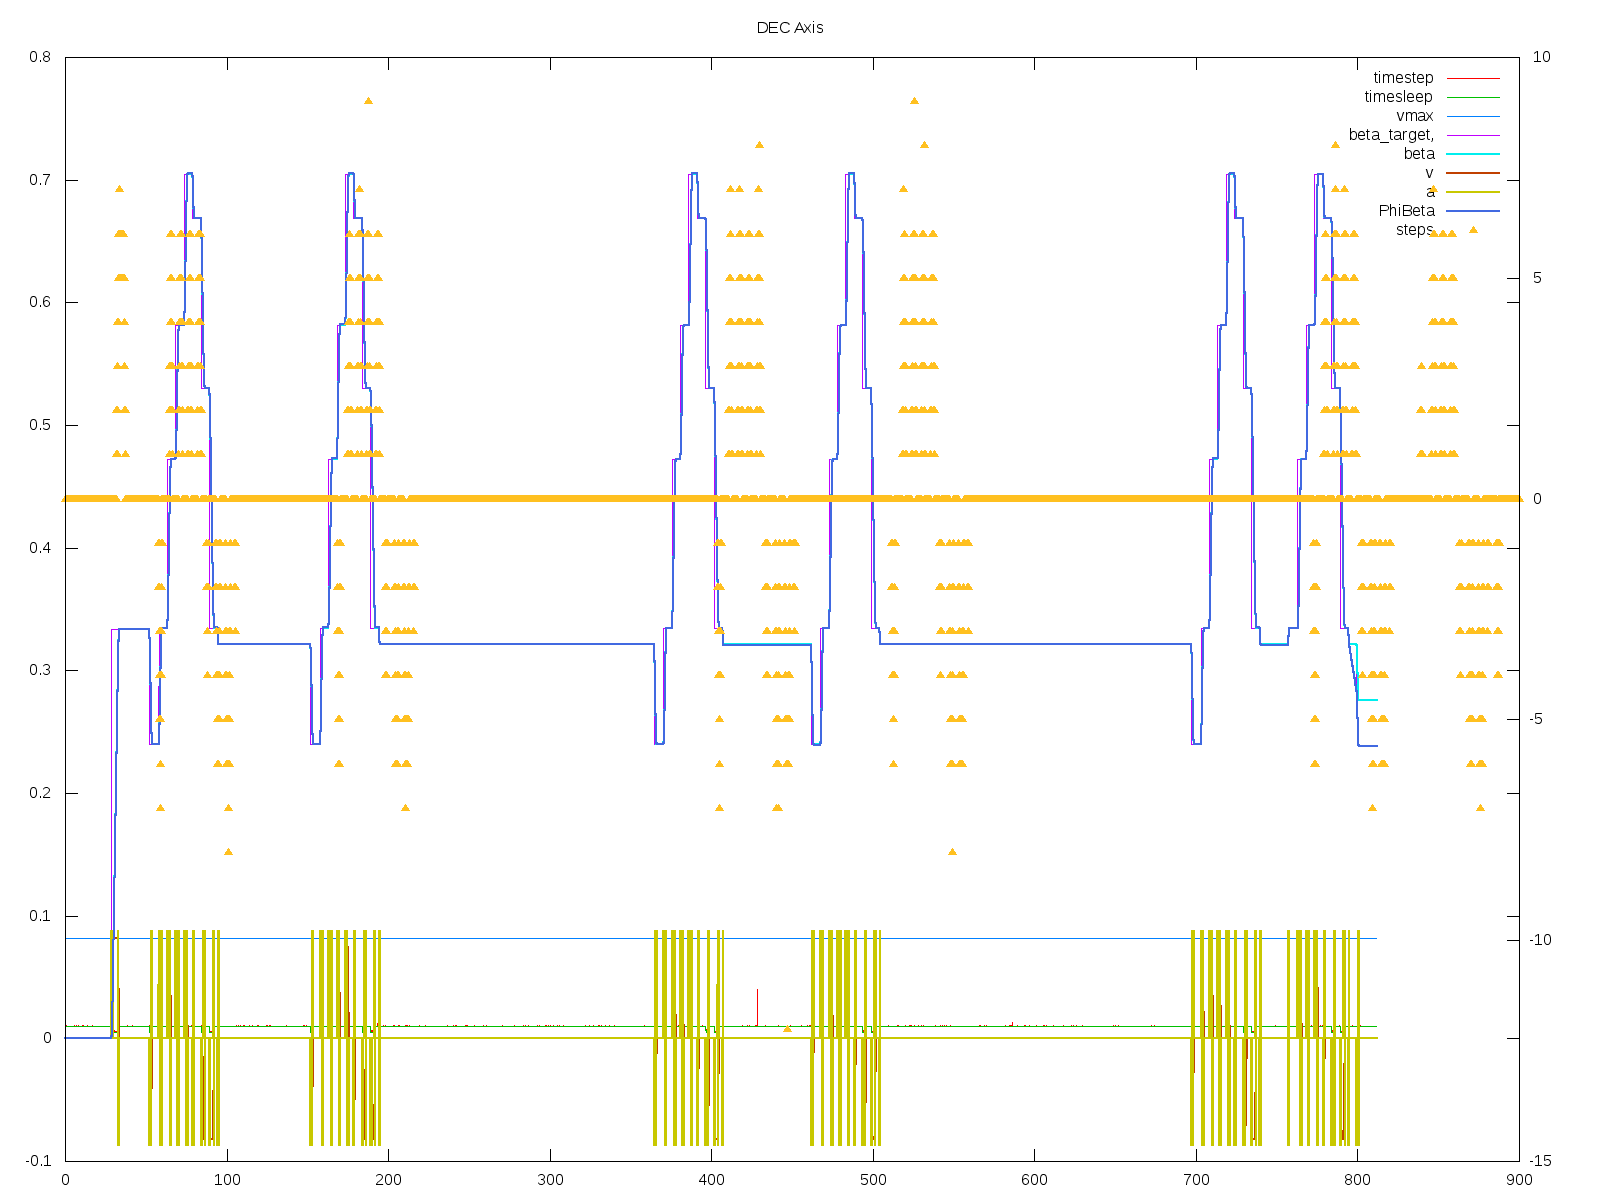
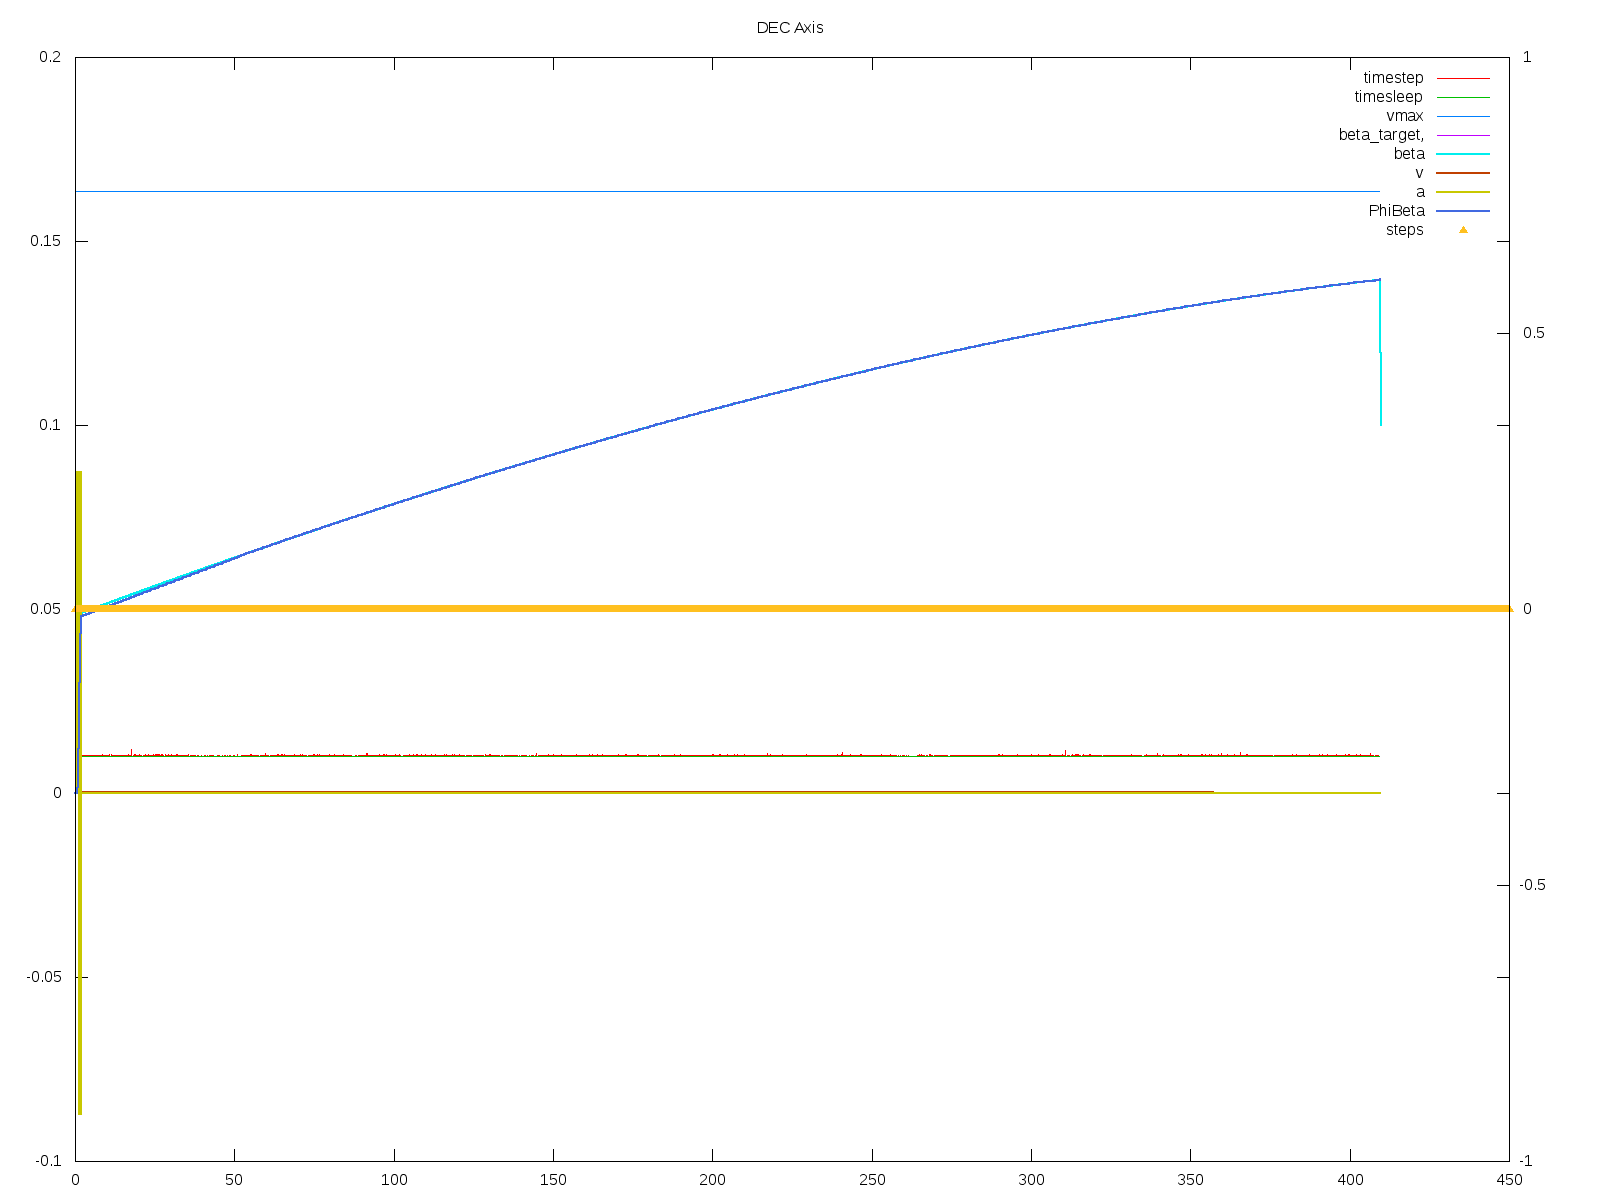
ISS tracking test

diff --git a/ramps.py b/ramps.py
@@ -166,7 +166,7 @@ class axis(object):
 
 
 		#check if it is time to deccelerate
-		if abs(self.delta) - self.beta_slope<=0:
+		if abs(self.delta) - self.beta_slope<=0 :
 			self.a=-self.acceleration*sign
 			#print self.name,"Decelerating:",self.a
 		else:
@@ -179,8 +179,7 @@ class axis(object):
 			if sign==v_sign:
 				self.v=self._vmax*v_sign
 				self.a=0
-				#print self.name,"V MAX :",ephem.degrees(self.v),"MAX PATH:",ephem.degrees(self.v*self.timestep)
-
+			
 		self.v=self.v+self.a*self.timestep
 		steps=self.v*self.timestep+self.a*(self.timestep*self.timestep)/2
 		self.beta=self.beta+steps
@@ -209,7 +208,7 @@ class AxisDriver(axis):
 		self.DIR_PIN=DIR_PIN
 		cb1 = self.pi.callback(self.PIN, pigpio.RISING_EDGE, self.stepCounter)
 		#cb2 = self.pi.callback(self.PIN, pigpio.FALLING_EDGE, self.falling)
-		self.stepsPerRevolution=200*16*24	#Motor:steps*microsteps*gearbox
+		self.stepsPerRevolution=200*8*24	#Motor:steps*microsteps*gearbox
 		self.corona=500
 		self.plate=500
 		self.FullTurnSteps=self.plate*self.stepsPerRevolution/self.corona
@@ -252,9 +251,9 @@ class AxisDriver(axis):
 
 		if self.debug:
 			PhiBeta=float(self.PhiBeta)*self.MinPhiStep
-			discarted=float(self.discarted)*self.MinPhiStep
-			#self.saveDebug(discarted,PhiBeta)
-			self.saveDebug(Isteps,PhiBeta)
+			#discarted=float(self.discarted)*self.MinPhiStep
+			self.saveDebug(self.discarted,PhiBeta)
+			#self.saveDebug(Isteps,PhiBeta)
 
 
 		if Isteps==0:
@@ -294,24 +293,16 @@ class AxisDriver(axis):
 
 		if self.discartFlag:
 			self.discarted=self.discarted+1*dire
-			print self.name,self.discarted*self.MinPhiStep,ephem.degrees(self.discarted*self.MinPhiStep),\
+			print   self.name,self.discarted*self.MinPhiStep,\
+				ephem.degrees(self.discarted*self.MinPhiStep),\
 				self.discarted,self.PhiBeta,abs(self.v)*1/self.MinPhiStep
-			#print self.name,self.PhiBeta,self.stepTarget,abs(self.stepTarget-self.PhiBeta)
-			#return
 
 		#Arrived. Stop PWM
-		if abs(self.stepTarget-self.PhiBeta+self.discarted) == 0:
-			#print "Arrive"
+		if abs(self.stepTarget-self.PhiBeta) == 0:
 			self.discartFlag=True
 			self.pi.hardware_PWM(self.PIN,0,0)
-		  	#self.pi.set_PWM_dutycycle(self.PIN, 0)
-			#self.pi.set_PWM_frequency(self.PIN,0)
-			#self.pi.write(self.PIN, 0)
-			#print self.name,self.PhiBeta,self.stepTarget,abs(self.stepTarget-self.PhiBeta)
-			#print "Stop PWM"
+
 		
-
-
 
 	@threaded
 	def stepQueueK(self):
@@ -333,7 +324,7 @@ class AxisDriver(axis):
 	def stepQueue(self):
  	  while not self.kill:
 		with self.lock:
-		   if abs(self.stepTarget-self.PhiBeta+self.discarted) != 0:
+		   if abs(self.stepTarget-self.PhiBeta) != 0:
 			if self.v!=0:
 				freq=round(abs(self.v)*1/self.MinPhiStep)
 			else:
@@ -344,17 +335,11 @@ class AxisDriver(axis):
 			if freq  >=1/self.pulseWidth:
 				freq=1/self.pulseWidth
 			self.pi.hardware_PWM(self.PIN,freq,self.pulseDuty*1000000)
-			self.discartFlag=False
+		   	self.discartFlag=False
 		time.sleep(self.pulseWidth)
 	  print "STEPS QUEUE END"
 	  self.pi.hardware_PWM(self.PIN,0,0)
 
-
-	def testFreq(self):
-		for f in range(1000):
-			#self.pi.set_PWM_frequency(self.PIN,f)
-			self.pi.hardware_PWM(self.PIN,f,500000)
-			print f, self.pi.get_PWM_frequency(self.PIN)
 
 class mount:
 	def __init__(self,a,v,pointError):
@@ -366,7 +351,6 @@ class mount:
 		self.axis2.setName("DEC")
 		self.T0=time.time()
 		self.run()
-
 
 	def run(self):					
 		self.axis1.run()
@@ -382,7 +366,7 @@ class mount:
 		self.axis2.sync(y)
 
 	def slewend(self):
-		retunr self.axis1.slewend && self.axis2.slewend
+		return (self.axis1.slewend and self.axis2.slewend)
 
 	def stopSlew(self):
 		self.axis1.slew(self.axis1.beta)
@@ -395,13 +379,13 @@ class mount:
 	def trackSpeed(self,vx,vy):
 		self.axis1.vtracking=vx
 		self.axis2.vtracking=vy
-		#print "TRACK SPEED",self.axis1.vtracking,self.axis2.vtracking
 
 	def compose(self,x,y):
 		deltax=x-self.axis1.beta
 		deltay=y-self.axis2.beta
 		angle=math.atan2(y, x)
-		print deltax,deltay,angle
+		module=math.sqr(deltax*deltax+deltay*deltay)
+		return module,angle
 	
 	def setVmax(self,x,y):
 		deltax=abs(x-self.axis1.beta)

diff --git a/LX200CMD.py b/LX200CMD.py
@@ -84,7 +84,8 @@ class lx200conductor():
 		
 	@threaded
 	def run(self):
-		#self.go2ISS()
+		self.go2ISS()
+		self.ISSspeed()
 	  	while self.RUN:
 			time.sleep(0.1)
 			#update 
@@ -96,7 +97,7 @@ class lx200conductor():
 			self.RA=ra
 			self.DEC=ephem.degrees(self.m.axis2.beta)
 
-			#self.go2ISS()
+			self.ISSspeed()
 
 			#print self.iss.ra,self.iss.dec
 
@@ -106,13 +107,28 @@ class lx200conductor():
 		print "MOTORS STOPPED"
 
 	def go2ISS(self):
-			#self.observer.date=ephem.Date(datetime.datetime.utcnow())
-			self.iss.compute()
+			observer=self.observer
+			observer.date=ephem.Date(datetime.datetime.utcnow())
+			self.iss.compute(observer)
 			self.targetRA=self.iss.ra
 			self.targetDEC=self.iss.dec
 			self.cmd_slew('')
   			return "target#"
 
+	def ISSspeed(self):
+			observer=self.observer
+			observer.date=ephem.Date(datetime.datetime.utcnow())
+			self.iss.compute(self.observer)
+			RA0=self.iss.ra
+			DEC0=self.iss.dec
+			observer.date=observer.date+ephem.second
+			self.iss.compute(observer)
+			RA1=self.iss.ra
+			DEC1=self.iss.dec
+			vRA=-(RA1-RA0)
+			vDEC=DEC1-DEC0
+			self.m.trackSpeed(vRA,vDEC)
+  			return "target#"
 
 	def cmd(self,cmd):
                 for c in self.CMDs.keys():
@@ -178,7 +194,7 @@ class lx200conductor():
 		return "target#"
 
 	def cmd_slew(self,arg):
-		ra=self.hourAngle(self.targetRA)	
+		ra=self.hourAngle(self.targetRA)
 		print "slewing to:",ra,self.targetDEC," from:",self.hourAngle(self.RA),self.DEC
 		self.m.slew(ra,self.targetDEC)
 		#return values 0==OK, 1 == below Horizon
@@ -187,10 +203,10 @@ class lx200conductor():
 	def hourAngle(self,ra):
 		self.observer.date=ephem.now()
 		sideral=self.observer.sidereal_time()
-		ra=ephem.hours(sideral-ra).znorm
-		if ra==ephem.hours("24:00:00"):
+		ra_=ephem.hours(sideral-ra).znorm
+		if ra_==ephem.hours("24:00:00"):
 			ra=ephem.hours("00:00:00")
-		return ra		
+		return ra_		
 
 	def cmd_stopSlew(self,arg):
 		self.m.stopSlew()

diff --git a/smokeTest.py b/smokeTest.py
@@ -33,12 +33,12 @@ def group(lst, n):
       yield tuple(val)
 
 
-def drawCostellationsFigures(costellation='Boo'):
+def drawCostellationsFigures(costellations=['Aur']):
 	coords=[]
 	figures=catalogues.CostellationFigures()
 	costellations=set(map(lambda x:x[0],figures))
-	if True:
-	#for costellation in costellations:
+	#if True:
+	for costellation in costellations:
 		data=filter(lambda x:x[0]==costellation,figures)[0]		
 		data=list(group(data[2:],2))
 		for s in data:	
@@ -65,6 +65,7 @@ while RUN:
    
     #for msg in messages:	
     for coord in coords:
+
 	    print coord
 	    r_cmd=':Sr '+coord[0]
 	    print >>sys.stderr, 'sending "%s"' % r_cmd
@@ -79,6 +80,7 @@ while RUN:
 	    data = sock.recv(16)
             print >>sys.stderr, 'received "%s"' % data
 	    time.sleep(5)	
+	    sock.sendall(':Q#')
 	    sock.sendall(':MS#')
 
 
